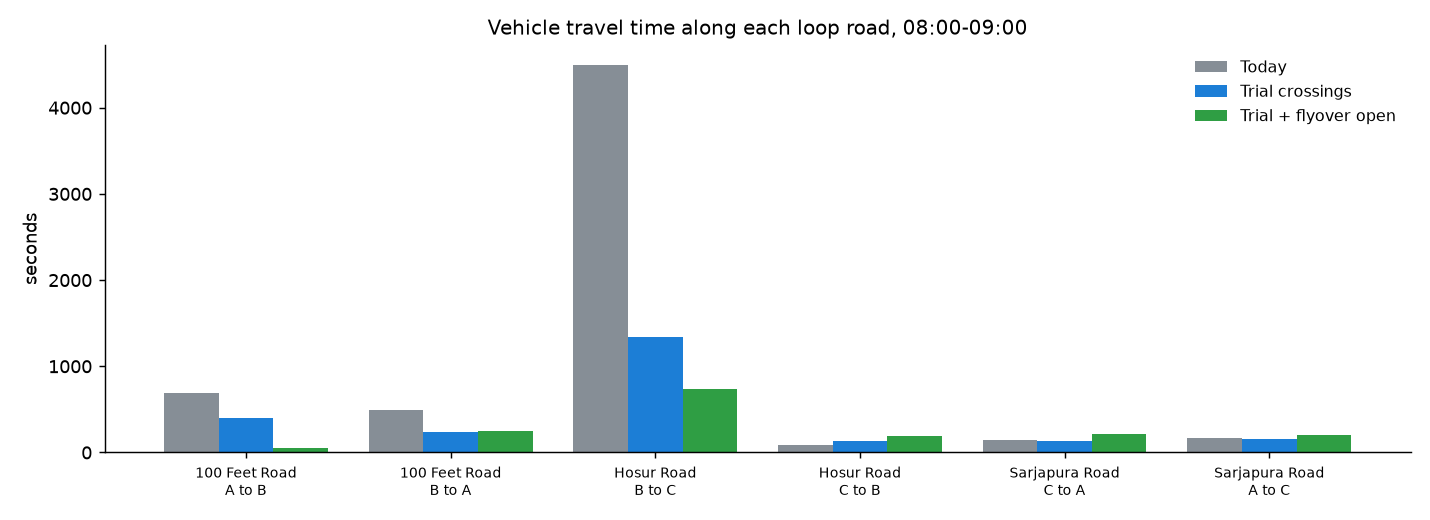
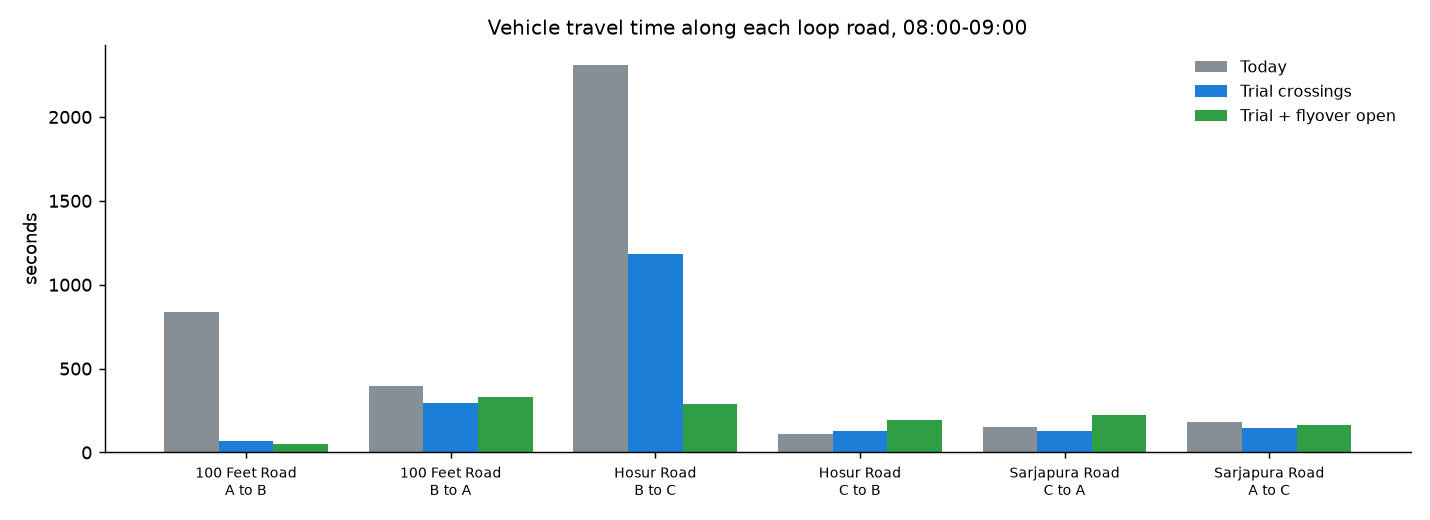
Merge 0.2 m approach edges into junctions A and C so actuated signals work
Hosur Road northbound through C rises from 325 to 511 veh/h and
teleports halve, but the baseline is still jammed between B and C.

diff --git a/scripts/build_net.py b/scripts/build_net.py
@@ -111,6 +111,26 @@ run([BIN('netconvert'), '-c', P('net', 'build.netccfg'), '--osm-files', P('net',
 # junction nodes for A, B and C: unsignalised main-road nodes within the junction's radius joining 3+ road edges
 # (nodes pass 1 already signalised are left alone; re-setting them crashes netconvert)
 RADIUS = {'A': 40, 'B': 40, 'C': 48}
+# Very short approach edges at the main junctions are merged into the junction first. OSM leaves a node a few metres
+# before A and C; netconvert turns that into an approach edge 0.2 m long, and a queue-following signal has its sensor
+# on that edge, sees nothing and cuts every green to the minimum.
+p0 = read_net(P('net', 'pass1.net.xml'))
+joins = ET.Element('nodes')
+for jid, ll in JUNCTIONS.items():
+    x, y = p0.convertLonLat2XY(*ll)
+    for n in p0.getNodes():
+        if math.dist(n.getCoord(), (x, y)) > RADIUS[jid] or len([e for e in n.getIncoming() + n.getOutgoing() if e.allows('passenger')]) < 3: continue
+        for e in n.getIncoming():
+            if e.allows('passenger') and e.getLength() < 12 and e.getPriority() >= 11 and e.getFromNode() is not n:
+                (ax, ay), (bx, by) = n.getCoord()[:2], e.getFromNode().getCoord()[:2]      # without x/y netconvert leaves the merged node unplaced
+                ET.SubElement(joins, 'join', nodes=f"{n.getID()} {e.getFromNode().getID()}", x=f"{ax:.2f}", y=f"{ay:.2f}")
+                patched.append(f"junction {jid}: merged the {e.getLength():.1f} m approach edge {e.getID()} into the junction")
+if len(joins):
+    ET.ElementTree(joins).write(P('net', 'plain', 'short_approach_joins.nod.xml'))
+    os.replace(P('net', 'pass1.net.xml'), P('net', 'pass1_unjoined.net.xml'))
+    run([BIN('netconvert'), '--sumo-net-file', P('net', 'pass1_unjoined.net.xml'), '--node-files', P('net', 'plain', 'short_approach_joins.nod.xml'),
+         '--lefthand', 'true', '--no-warnings', 'true', '--crossings.guess', 'true', '--output-file', P('net', 'pass1.net.xml')] + tls_opts + ped_opts,
+        log=P('out', 'checks', 'netconvert_pass1_joins.log'))
 p1 = read_net(P('net', 'pass1.net.xml'))
 SIGNALISED = C.get('signalised_junctions', list(JUNCTIONS))       # junctions left out get no signal, even if OSM maps one
 tls_nodes, unset = [], []

diff --git a/report/REPORT.md b/report/REPORT.md
@@ -16,9 +16,9 @@ volumes, pedestrian volumes and signal timings are **assumptions** until the sit
 
 | Scenario | People crossing (trips) | Crossing trip time, s (Δ vs today) | Extra walk, m (Δ) | Time lost walking, s (Δ) | Vehicle delay per trip incl. waiting to enter, s (Δ) | Bus delay per trip, s (Δ) | Vehicles never let in | Teleports | Collisions |
 |---|---|---|---|---|---|---|---|---|---|
-| Today | 2610 | 194.4 (+0.0) | 145.8 (+0.0) | 61.6 (+0.0) | 410.8 (+0.0) | 666.4 (+0.0) | 4224 | 367 | 13 |
-| Trial crossings | 2609 | 141.6 (-52.8) | 95.3 (-50.5) | 45.9 (-15.7) | 562.4 (+151.6) | 629.4 (-37.0) | 3312 | 257 | 18 |
-| Trial + flyover open | 2609 | 142.0 (-52.4) | 95.3 (-50.5) | 46.7 (-14.9) | 362.5 (-48.3) | 481.0 (-185.4) | 1309 | 117 | 21 |
+| Today | 2610 | 196.6 (+0.0) | 145.4 (+0.0) | 64.4 (+0.0) | 834.0 (+0.0) | 972.1 (+0.0) | 3547 | 174 | 23 |
+| Trial crossings | 2609 | 141.2 (-55.4) | 95.1 (-50.3) | 45.7 (-18.7) | 713.8 (-120.2) | 1052.4 (+80.3) | 2936 | 148 | 25 |
+| Trial + flyover open | 2609 | 141.2 (-55.4) | 94.8 (-50.6) | 46.0 (-18.4) | 293.9 (-540.1) | 539.1 (-433.0) | 160 | 94 | 10 |
 
 *Vehicles never let in* = demand that could not enter the network before the simulation ended — a sign the assumed volumes exceed what the entries and signals can carry (Madiwala is congested at peak, but the volumes are uncalibrated).
 
@@ -27,117 +27,117 @@ volumes, pedestrian volumes and signal timings are **assumptions** until the sit
 ### People crossing each road
 | Scenario | Road | Trips | Trip time mean s | p85 s | Time lost s | Walked m | Straight-line m | Extra m | Detour factor (median) |
 |---|---|---|---|---|---|---|---|---|---|
-| Today | 100 Feet Road | 825 | 95.7 | 140.5 | 40.8 | 75.4 | 33.5 | 42.0 | 1.49 |
-| Today | Hosur Road | 994 | 294.8 | 515.5 | 72.8 | 303.8 | 39.6 | 264.2 | 5.81 |
-| Today | Sarjapura Road | 791 | 171.3 | 281.5 | 69.3 | 140.1 | 34.6 | 105.5 | 2.96 |
-| Trial crossings | 100 Feet Road | 824 | 101.2 | 133.5 | 32.6 | 94.1 | 33.5 | 60.6 | 1.42 |
-| Trial crossings | Hosur Road | 994 | 197.0 | 440.5 | 52.5 | 198.8 | 39.6 | 159.2 | 3.23 |
-| Trial crossings | Sarjapura Road | 791 | 113.9 | 174.5 | 51.4 | 85.6 | 34.6 | 51.0 | 2.35 |
-| Trial + flyover open | 100 Feet Road | 824 | 100.6 | 133.0 | 32.6 | 94.0 | 33.5 | 60.5 | 1.41 |
-| Trial + flyover open | Hosur Road | 994 | 194.6 | 441.5 | 50.5 | 198.9 | 39.6 | 159.3 | 3.22 |
-| Trial + flyover open | Sarjapura Road | 791 | 118.9 | 182.0 | 56.7 | 85.7 | 34.6 | 51.1 | 2.35 |
+| Today | 100 Feet Road | 825 | 99.5 | 162.0 | 44.4 | 75.5 | 33.5 | 42.0 | 1.5 |
+| Today | Hosur Road | 994 | 297.1 | 517.0 | 77.1 | 302.5 | 39.6 | 262.9 | 5.79 |
+| Today | Sarjapura Road | 791 | 171.5 | 283.5 | 69.4 | 140.2 | 34.6 | 105.6 | 2.96 |
+| Trial crossings | 100 Feet Road | 824 | 99.0 | 134.5 | 30.7 | 94.0 | 33.5 | 60.5 | 1.42 |
+| Trial crossings | Hosur Road | 994 | 197.3 | 432.0 | 53.0 | 198.3 | 39.6 | 158.7 | 3.22 |
+| Trial crossings | Sarjapura Road | 791 | 114.8 | 176.0 | 52.1 | 85.7 | 34.6 | 51.1 | 2.35 |
+| Trial + flyover open | 100 Feet Road | 824 | 98.8 | 128.5 | 30.7 | 94.0 | 33.5 | 60.5 | 1.42 |
+| Trial + flyover open | Hosur Road | 994 | 196.2 | 438.0 | 52.2 | 197.6 | 39.6 | 158.0 | 3.22 |
+| Trial + flyover open | Sarjapura Road | 791 | 116.1 | 173.5 | 54.2 | 85.6 | 34.6 | 51.0 | 2.35 |
 
 ### Vehicles along each loop road
 ![vehicles](vehicles.png)
 
 | Scenario | Road | Direction | Length m | Travel time s | Free-flow s | Delay s | Avg speed km/h | Vehicles/h (max edge) |
 |---|---|---|---|---|---|---|---|---|
-| Today | 100 Feet Road | A>B | 478 | 694.2 | 37.4 | 656.8 | 2.5 | 718 |
-| Today | 100 Feet Road | B>A | 474 | 492.2 | 56.9 | 435.3 | 3.5 | 262 |
-| Today | Hosur Road | B>C | 830 | 4497.8 | 65.2 | 4432.6 | 0.7 | 375 |
-| Today | Hosur Road | C>B | 723 | 88.9 | 48.8 | 40.0 | 29.3 | 2263 |
-| Today | Sarjapura Road | C>A | 750 | 148.6 | 51.3 | 97.3 | 18.2 | 2263 |
-| Today | Sarjapura Road | A>C | 922 | 170.8 | 66.4 | 104.4 | 19.4 | 1247 |
-| Trial crossings | 100 Feet Road | A>B | 463 | 395.1 | 36.3 | 358.8 | 4.2 | 758 |
-| Trial crossings | 100 Feet Road | B>A | 460 | 241.2 | 55.2 | 185.9 | 6.9 | 390 |
-| Trial crossings | Hosur Road | B>C | 820 | 1334.5 | 64.4 | 1270.1 | 2.2 | 552 |
-| Trial crossings | Hosur Road | C>B | 790 | 128.1 | 57.5 | 70.6 | 22.2 | 2269 |
-| Trial crossings | Sarjapura Road | C>A | 737 | 132.4 | 50.4 | 81.9 | 20.0 | 2269 |
-| Trial crossings | Sarjapura Road | A>C | 910 | 150.9 | 65.5 | 85.4 | 21.7 | 1070 |
-| Trial + flyover open | 100 Feet Road | A>B | 463 | 55.4 | 36.3 | 19.1 | 30.1 | 685 |
-| Trial + flyover open | 100 Feet Road | B>A | 460 | 249.2 | 55.2 | 194.0 | 6.6 | 406 |
-| Trial + flyover open | Hosur Road | B>C | 820 | 741.5 | 64.4 | 677.1 | 4.0 | 860 |
-| Trial + flyover open | Hosur Road | C>B | 790 | 195.4 | 57.5 | 137.9 | 14.6 | 2285 |
-| Trial + flyover open | Sarjapura Road | C>A | 737 | 212.7 | 50.4 | 162.3 | 12.5 | 2285 |
-| Trial + flyover open | Sarjapura Road | A>C | 910 | 201.4 | 65.5 | 135.9 | 16.3 | 1157 |
+| Today | 100 Feet Road | A>B | 478 | 839.5 | 37.4 | 802.1 | 2.1 | 306 |
+| Today | 100 Feet Road | B>A | 474 | 397.7 | 56.9 | 340.8 | 4.3 | 714 |
+| Today | Hosur Road | B>C | 829 | 2311.0 | 65.1 | 2245.8 | 1.3 | 526 |
+| Today | Hosur Road | C>B | 725 | 109.0 | 49.1 | 59.8 | 24.0 | 2243 |
+| Today | Sarjapura Road | C>A | 750 | 150.9 | 51.3 | 99.6 | 17.9 | 2243 |
+| Today | Sarjapura Road | A>C | 922 | 181.0 | 66.4 | 114.5 | 18.4 | 1407 |
+| Trial crossings | 100 Feet Road | A>B | 463 | 68.8 | 36.3 | 32.5 | 24.2 | 900 |
+| Trial crossings | 100 Feet Road | B>A | 460 | 294.3 | 55.2 | 239.0 | 5.6 | 384 |
+| Trial crossings | Hosur Road | B>C | 819 | 1182.6 | 64.4 | 1118.2 | 2.5 | 689 |
+| Trial crossings | Hosur Road | C>B | 793 | 127.4 | 57.8 | 69.6 | 22.4 | 2263 |
+| Trial crossings | Sarjapura Road | C>A | 737 | 128.3 | 50.4 | 77.9 | 20.7 | 2263 |
+| Trial crossings | Sarjapura Road | A>C | 910 | 145.5 | 65.5 | 80.0 | 22.5 | 1094 |
+| Trial + flyover open | 100 Feet Road | A>B | 463 | 51.3 | 36.3 | 15.0 | 32.5 | 572 |
+| Trial + flyover open | 100 Feet Road | B>A | 460 | 327.8 | 55.2 | 272.5 | 5.1 | 534 |
+| Trial + flyover open | Hosur Road | B>C | 819 | 286.7 | 64.4 | 222.4 | 10.3 | 1744 |
+| Trial + flyover open | Hosur Road | C>B | 793 | 196.1 | 57.8 | 138.3 | 14.5 | 2143 |
+| Trial + flyover open | Sarjapura Road | C>A | 737 | 225.0 | 50.4 | 174.5 | 11.8 | 2143 |
+| Trial + flyover open | Sarjapura Road | A>C | 910 | 165.1 | 65.5 | 99.5 | 19.9 | 855 |
 
 ### Queues at signals
 ![queues](queues.png)
 
 | Scenario | Signal (A/B/C, X0-X7 = trial crossings) | Approach lanes | Mean queue, worst lane m | Max queue m |
 |---|---|---|---|---|
-| Today | A | 14 | 47.8 | 150.1 |
-| Today | C | 12 | 50.0 | 149.9 |
-| Trial crossings | A | 14 | 42.3 | 150.1 |
-| Trial crossings | C | 12 | 84.0 | 150.1 |
-| Trial crossings | X0 | 8 | 4.8 | 62.2 |
-| Trial crossings | X1 | 8 | 48.3 | 139.0 |
-| Trial crossings | X2 | 4 | 0.1 | 4.3 |
-| Trial crossings | X3 | 14 | 17.3 | 47.7 |
-| Trial crossings | X4 | 14 | 70.7 | 74.1 |
-| Trial crossings | X5 | 12 | 2.9 | 48.6 |
-| Trial crossings | X6 | 12 | 1.6 | 25.5 |
-| Trial crossings | X7 | 12 | 5.0 | 133.4 |
-| Trial + flyover open | A | 14 | 55.7 | 150.1 |
-| Trial + flyover open | C | 12 | 132.6 | 150.1 |
-| Trial + flyover open | X0 | 8 | 0.9 | 37.6 |
-| Trial + flyover open | X1 | 8 | 3.2 | 54.5 |
-| Trial + flyover open | X2 | 4 | 0.1 | 4.3 |
-| Trial + flyover open | X3 | 14 | 16.4 | 42.9 |
-| Trial + flyover open | X4 | 14 | 70.5 | 73.2 |
-| Trial + flyover open | X5 | 12 | 56.8 | 150.1 |
-| Trial + flyover open | X6 | 12 | 6.2 | 59.5 |
-| Trial + flyover open | X7 | 12 | 3.6 | 139.4 |
+| Today | A | 18 | 40.2 | 150.1 |
+| Today | C | 20 | 61.9 | 150.1 |
+| Trial crossings | A | 18 | 69.1 | 150.1 |
+| Trial crossings | C | 20 | 38.1 | 150.1 |
+| Trial crossings | X0 | 8 | 8.0 | 75.8 |
+| Trial crossings | X1 | 8 | 4.4 | 80.9 |
+| Trial crossings | X2 | 4 | 0.1 | 4.8 |
+| Trial crossings | X3 | 14 | 17.6 | 29.1 |
+| Trial crossings | X4 | 14 | 71.2 | 75.3 |
+| Trial crossings | X5 | 12 | 3.0 | 53.2 |
+| Trial crossings | X6 | 12 | 1.6 | 27.3 |
+| Trial crossings | X7 | 12 | 3.6 | 139.3 |
+| Trial + flyover open | A | 18 | 86.4 | 150.1 |
+| Trial + flyover open | C | 20 | 143.5 | 150.1 |
+| Trial + flyover open | X0 | 8 | 6.9 | 77.1 |
+| Trial + flyover open | X1 | 8 | 4.0 | 45.1 |
+| Trial + flyover open | X2 | 4 | 0.2 | 11.1 |
+| Trial + flyover open | X3 | 14 | 9.2 | 35.9 |
+| Trial + flyover open | X4 | 14 | 69.3 | 73.2 |
+| Trial + flyover open | X5 | 12 | 3.8 | 59.6 |
+| Trial + flyover open | X6 | 12 | 1.4 | 30.6 |
+| Trial + flyover open | X7 | 12 | 5.0 | 139.4 |
 
 Queue detectors cover the last 150 m of each approach lane, so 150 m means "the queue reaches past the detector".
 
 ### Crossing use (people per hour)
 | Scenario | Crossing | People/h |
 |---|---|---|
-| Today | A | 1117 |
-| Today | B | 1593 |
-| Today | C | 1160 |
-| Today | FOB BC@612 | 492 |
-| Today | FOB CA@415 | 145 |
-| Today | foot bridges off the loop | 4 |
-| Today | other junctions | 5804 |
-| Trial crossings | A | 1116 |
-| Trial crossings | B | 642 |
-| Trial crossings | C | 945 |
-| Trial crossings | FOB BC@612 | 219 |
+| Today | A | 1121 |
+| Today | B | 1628 |
+| Today | C | 1158 |
+| Today | FOB BC@612 | 484 |
+| Today | FOB CA@415 | 147 |
+| Today | foot bridges off the loop | 9 |
+| Today | other junctions | 11673 |
+| Trial crossings | A | 1132 |
+| Trial crossings | B | 676 |
+| Trial crossings | C | 973 |
+| Trial crossings | FOB BC@612 | 212 |
 | Trial crossings | FOB CA@415 | 0 |
-| Trial crossings | X0 | 12 |
-| Trial crossings | X1 | 265 |
-| Trial crossings | X2 | 240 |
+| Trial crossings | X0 | 14 |
+| Trial crossings | X1 | 266 |
+| Trial crossings | X2 | 236 |
 | Trial crossings | X3 | 480 |
-| Trial crossings | X4 | 108 |
-| Trial crossings | X5 | 156 |
-| Trial crossings | X6 | 38 |
+| Trial crossings | X4 | 107 |
+| Trial crossings | X5 | 159 |
+| Trial crossings | X6 | 39 |
 | Trial crossings | X7 | 74 |
-| Trial crossings | foot bridges off the loop | 4 |
-| Trial crossings | other junctions | 5029 |
-| Trial + flyover open | A | 1134 |
-| Trial + flyover open | B | 630 |
-| Trial + flyover open | C | 972 |
-| Trial + flyover open | FOB BC@612 | 211 |
+| Trial crossings | foot bridges off the loop | 9 |
+| Trial crossings | other junctions | 9320 |
+| Trial + flyover open | A | 1120 |
+| Trial + flyover open | B | 681 |
+| Trial + flyover open | C | 981 |
+| Trial + flyover open | FOB BC@612 | 202 |
 | Trial + flyover open | FOB CA@415 | 0 |
-| Trial + flyover open | X0 | 12 |
-| Trial + flyover open | X1 | 270 |
-| Trial + flyover open | X2 | 244 |
-| Trial + flyover open | X3 | 481 |
-| Trial + flyover open | X4 | 109 |
-| Trial + flyover open | X5 | 158 |
-| Trial + flyover open | X6 | 38 |
-| Trial + flyover open | X7 | 75 |
-| Trial + flyover open | foot bridges off the loop | 5 |
-| Trial + flyover open | other junctions | 5018 |
+| Trial + flyover open | X0 | 14 |
+| Trial + flyover open | X1 | 261 |
+| Trial + flyover open | X2 | 233 |
+| Trial + flyover open | X3 | 477 |
+| Trial + flyover open | X4 | 107 |
+| Trial + flyover open | X5 | 157 |
+| Trial + flyover open | X6 | 39 |
+| Trial + flyover open | X7 | 72 |
+| Trial + flyover open | foot bridges off the loop | 8 |
+| Trial + flyover open | other junctions | 9324 |
 
 ### Buses
 | Scenario | Buses (finished) | Trip time in area s | Delay mean s | Delay p85 s |
 |---|---|---|---|---|
-| Today | 92 | 835.9 | 666.4 | 2056.6 |
-| Trial crossings | 123 | 778.5 | 629.4 | 1432.6 |
-| Trial + flyover open | 143 | 635.5 | 481.0 | 686.0 |
+| Today | 95 | 1147.4 | 972.1 | 2421.8 |
+| Trial crossings | 118 | 1212.7 | 1052.4 | 2866.0 |
+| Trial + flyover open | 229 | 705.6 | 539.1 | 1256.7 |
 
 ### Map
 ![map](map.png)

diff --git a/HOWTO.md b/HOWTO.md
@@ -56,6 +56,12 @@ All assumed numbers (volumes, signal timings, pedestrian rates) are in `config/a
   corridor's main flow. They are assumed to be 2 lanes (`network.lane_overrides`); confirm on the walk.
 - **Signals.** Fixed 120 s plans starved the busy approaches (C gave Hosur Road northbound 44 s). Junction signals are now
   `actuated`, so green follows the queues (`signals.junction_type`).
+- **0.2 m approach edges.** OSM has a node a few metres before junctions A and C, which netconvert turns into an approach
+  edge 0.2 m long. An actuated signal puts its sensor on that edge, sees nothing and cuts every green to the minimum
+  (C passed 325 veh/h). `build_net.py` merges such edges into the junction before the signals are built; the join needs
+  explicit x/y or netconvert leaves the merged node unplaced, and `--crossings.guess` to rebuild its crossings.
+- **Which junctions have signals** is `signals.signalised_junctions`. B is off, following the tender's route map; without a
+  signal the turn from 100 Feet Road cannot merge into Hosur Road southbound. Unresolved.
 - **Foot over bridges.** OSM maps the bridges and their stairs but does not join them to the roads, so netconvert drops them.
   `build_net.py` adds `osm/footbridges.osm.xml` and joins each stair foot to the nearest main carriageway with a short footway.
   Stairs get a slow walking speed (`network.foot_over_bridges`). `metrics.py` reports people using each bridge as `FOB <road>@<m>`.
